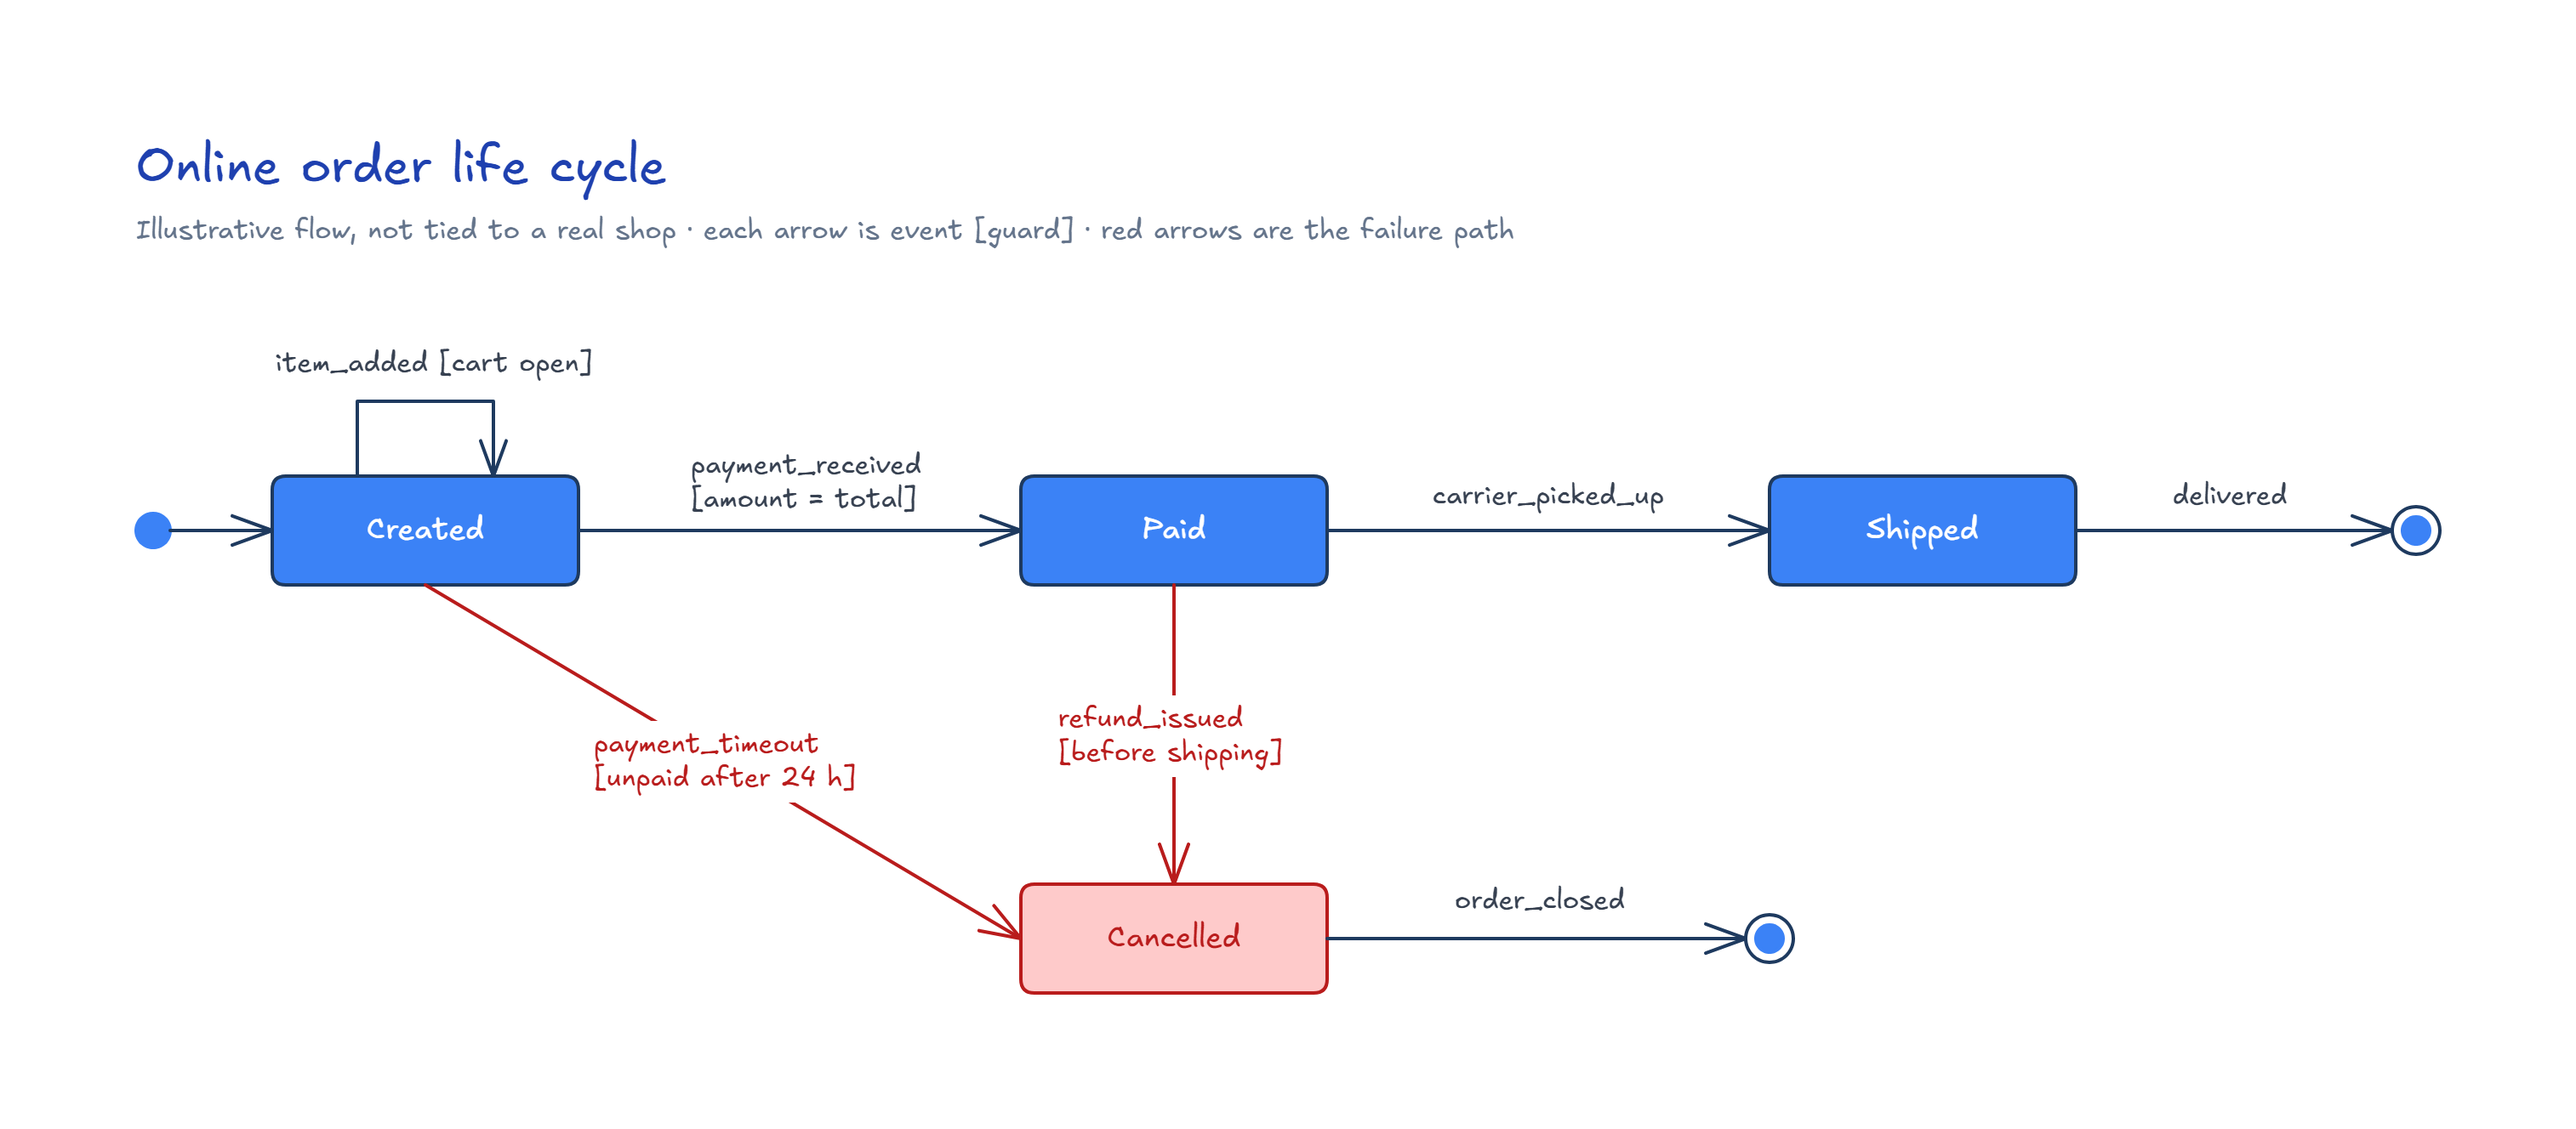
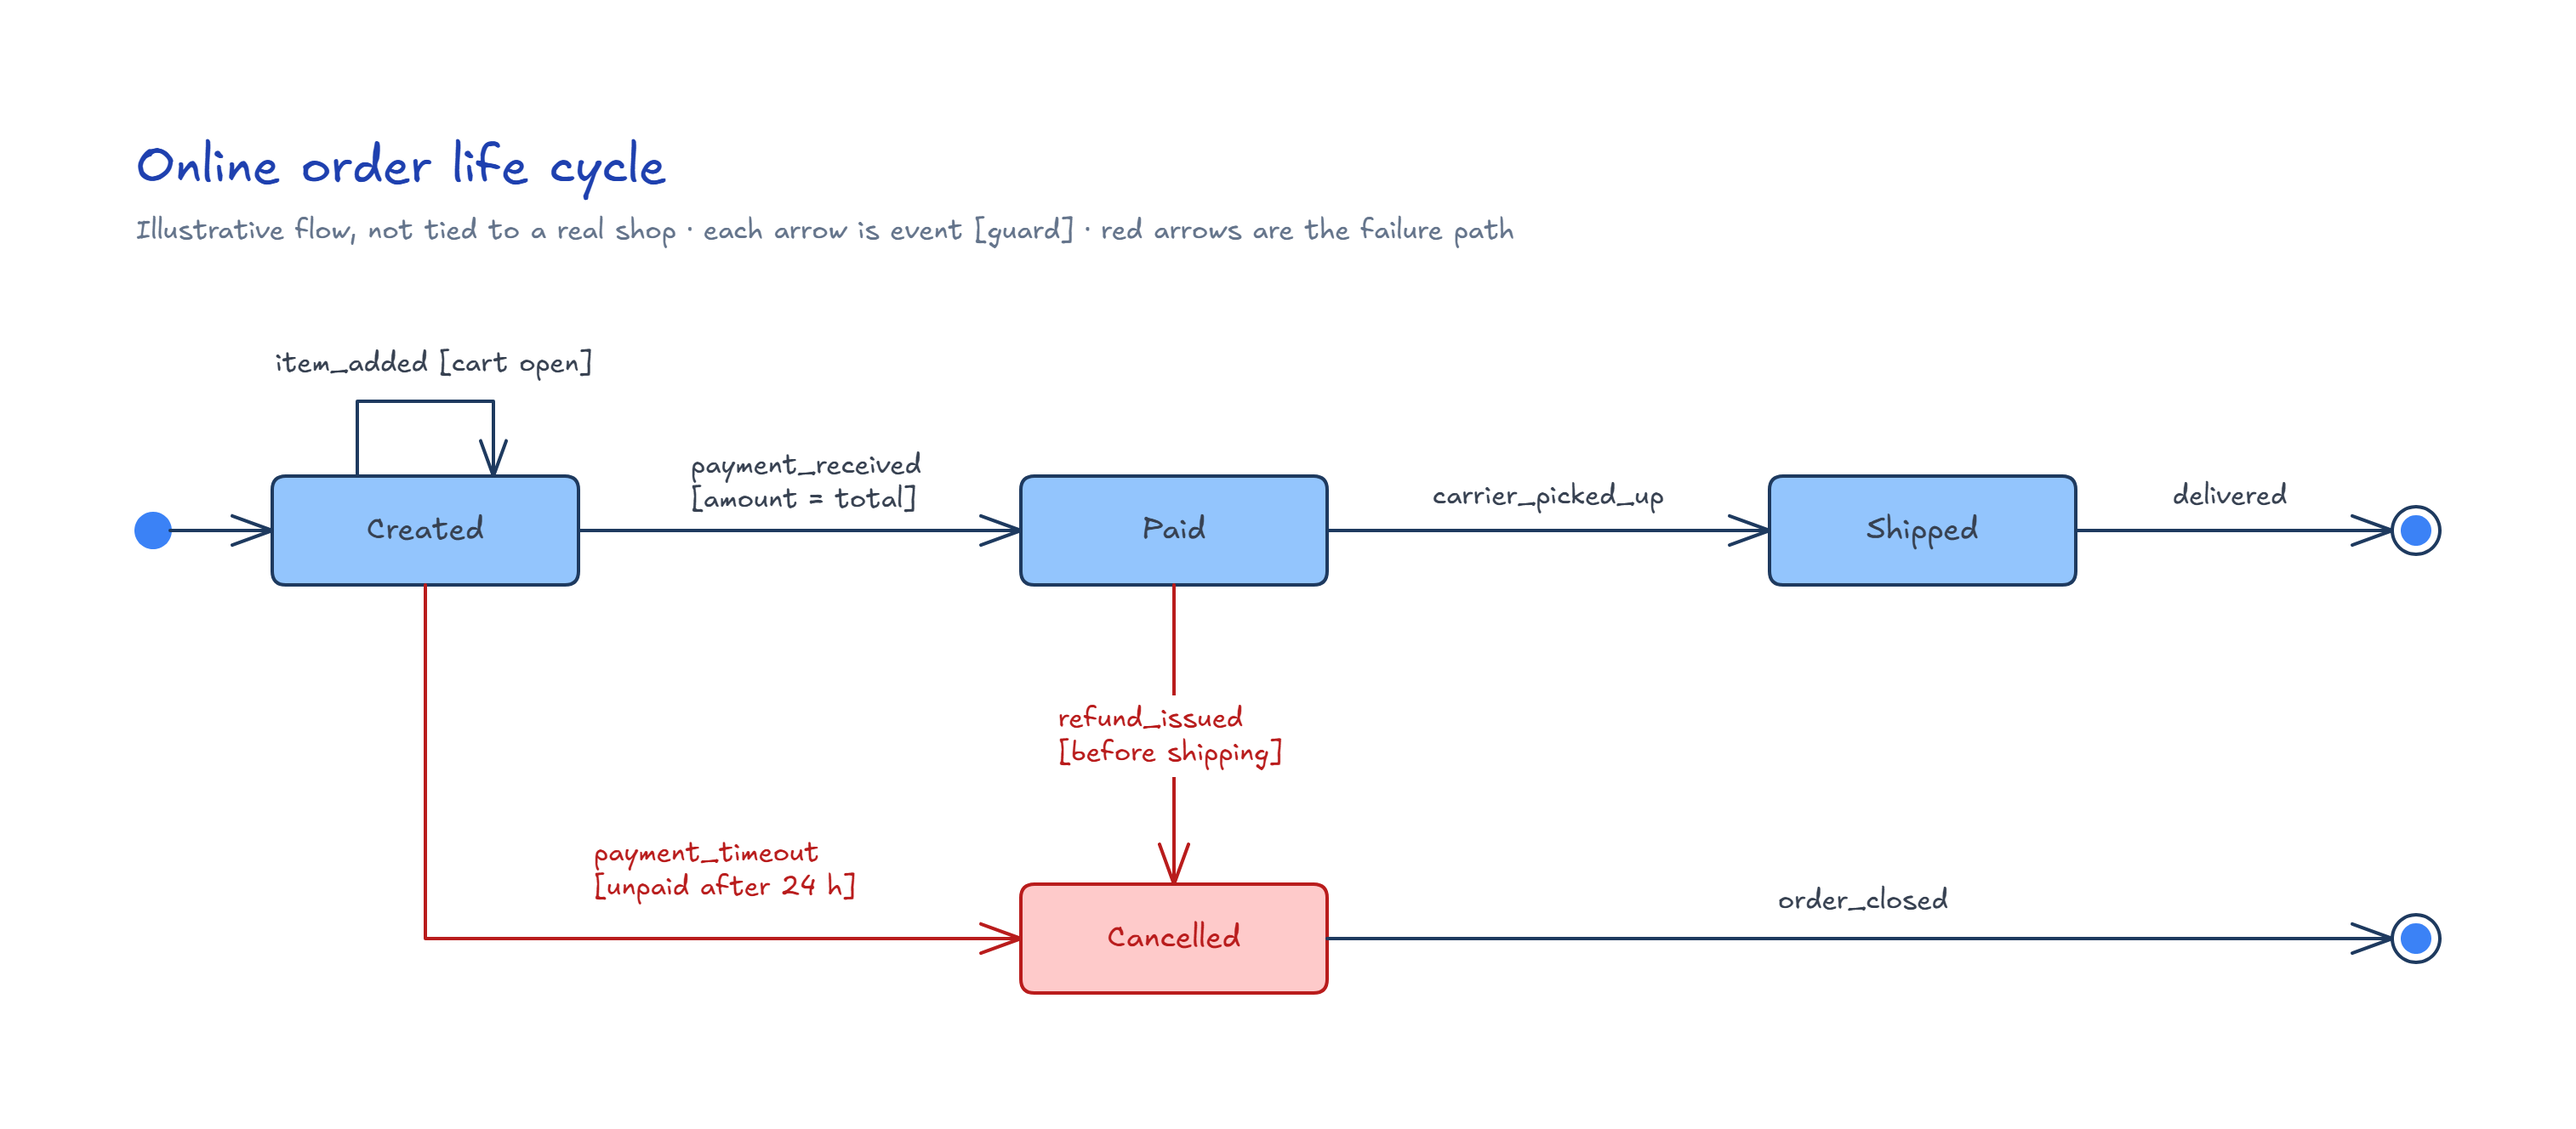
fix(examples): improve contrast and routing in the order life cycle diagram

diff --git a/skill/references/state.md b/skill/references/state.md
@@ -24,6 +24,7 @@ All sizes are in pixels. `padding` is the `## Diagrams` token of `DESIGN.md`.
 - **Final state:** a ring 28 × 28 (role `structure`, no fill) with a dot 16 × 16 (role `marker`) centered inside it. A diagram may have several. Transitions into it carry the event that ends the life cycle, or none when the state ends on its own.
 - **Failure state:** role `error` for the state a life cycle ends in unsuccessfully, such as "Cancelled". Use color only for the failure path.
 - **Transitions:** role `message-async` (solid, open head), an arrow from the edge of one state to the edge of the next. Bind both ends: `startBinding` and `endBinding` name the connected states, and each state lists the arrow in its `boundElements`. A transition on the failure path takes role `error`, on both the arrow and its label.
+- **Direction:** every arrow is horizontal or vertical. A transition between states that share no row or column bends once at a right angle: out of the bottom or top edge, then into the side edge of the target, with its label above the long segment. Keep the final markers of all rows in one column.
 - **Self-transition:** an arrow that leaves the top edge of a state, goes up 44, right 80 and back down into the same state, with `startBinding` and `endBinding` both naming that state. Its label sits above the loop.
 - **Transition labels:** font 16, `event [guard]`. The event is a short past-tense name or verb (`payment_received`); the guard is a condition in brackets (`[amount = total]`). Put a long guard on a second line. Center the label on the widest free stretch of its arrow, with an opaque rectangle behind it (role `label-background`) so the arrow does not cross the text. A label above a horizontal arrow sits 20 to 28 above it and needs no backing. A self-transition label needs none either.
 - **Draw order** (array order is z-order): states, markers and rings, arrows, label backgrounds, then all text.
